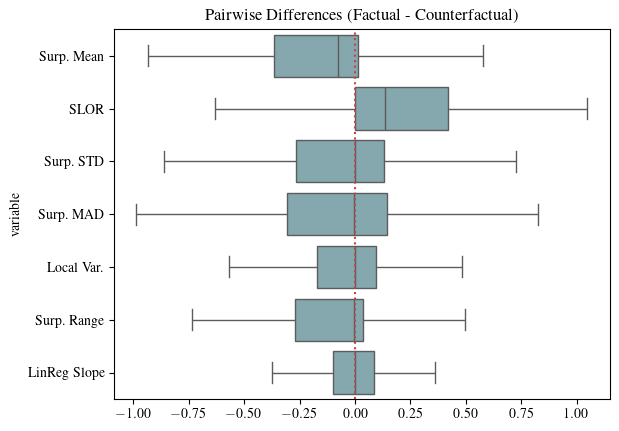
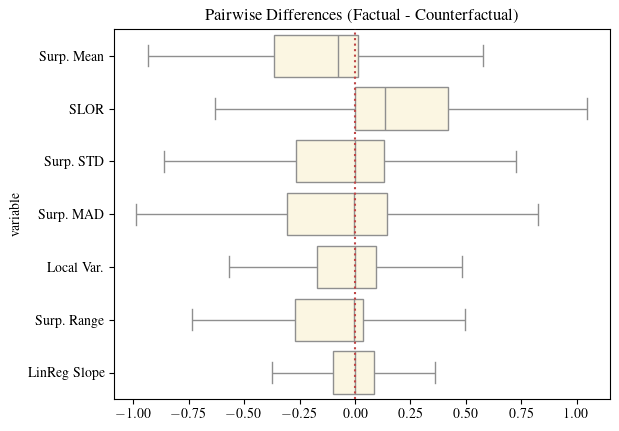
chore: upload new graphs

diff --git a/plots/norm_pairedt_pass-v-act_word_sentence_document.md b/plots/norm_pairedt_pass-v-act_word_sentence_document.md
@@ -1,0 +1,16 @@
+| Metric       | Conversion Type   |   Normality TS |   Normality P-val |   Paired-t TS |   Paired-t P-val |
+|:-------------|:------------------|---------------:|------------------:|--------------:|-----------------:|
+| Surp. Mean   | P to A            |          45.18 |                 0 |        -13.5  |             0    |
+| Surp. Mean   | A to P            |         379.54 |                 0 |        -13.66 |             0    |
+| SLOR         | P to A            |          24.65 |                 0 |         11.19 |             1    |
+| SLOR         | A to P            |         369.3  |                 0 |         20.49 |             1    |
+| Surp. STD    | P to A            |          38.33 |                 0 |         -7.06 |             0    |
+| Surp. STD    | A to P            |         692.85 |                 0 |         -6.84 |             0    |
+| Surp. MAD    | P to A            |          20.22 |                 0 |         -8.1  |             0    |
+| Surp. MAD    | A to P            |         426.03 |                 0 |         -4.65 |             0    |
+| Local Var.   | P to A            |          68.63 |                 0 |         -3.96 |             0    |
+| Local Var.   | A to P            |         784.87 |                 0 |         -5.44 |             0    |
+| Surp. Range  | P to A            |          64.66 |                 0 |         -4.98 |             0    |
+| Surp. Range  | A to P            |         734.12 |                 0 |        -12.93 |             0    |
+| LinReg Slope | P to A            |         128.32 |                 0 |          2.14 |             0.98 |
+| LinReg Slope | A to P            |        1369.39 |                 0 |         -5.44 |             0    |

diff --git a/plots/diff_means_perm_pass-v-act_word_sentence_document.md b/plots/diff_means_perm_pass-v-act_word_sentence_document.md
@@ -1,0 +1,16 @@
+| Metric       | Conversion Type   |   P-value |   Observed abs. diff |
+|:-------------|:------------------|----------:|---------------------:|
+| Surp. Mean   | P to A            |      0    |                 0.61 |
+| Surp. Mean   | A to P            |      0    |                 0.14 |
+| SLOR         | P to A            |      0    |                 0.41 |
+| SLOR         | A to P            |      0    |                 0.21 |
+| Surp. STD    | P to A            |      0    |                 0.4  |
+| Surp. STD    | A to P            |      0    |                 0.09 |
+| Surp. MAD    | P to A            |      0    |                 0.43 |
+| Surp. MAD    | A to P            |      0.02 |                 0.07 |
+| Local Var.   | P to A            |      0.07 |                 0.15 |
+| Local Var.   | A to P            |      0.05 |                 0.06 |
+| Surp. Range  | P to A            |      0.02 |                 0.31 |
+| Surp. Range  | A to P            |      0    |                 0.16 |
+| LinReg Slope | P to A            |      0.03 |                 0.17 |
+| LinReg Slope | A to P            |      0    |                 0.11 |

diff --git a/plots/diff_means_perm_word_sentence_document.md b/plots/diff_means_perm_word_sentence_document.md
@@ -4,6 +4,6 @@
 | SLOR         |      0    |                 0.22 |
 | Surp. STD    |      0    |                 0.11 |
 | Surp. MAD    |      0    |                 0.09 |
-| Local Var.   |      0.03 |                 0.06 |
+| Local Var.   |      0.02 |                 0.06 |
 | Surp. Range  |      0    |                 0.17 |
 | LinReg Slope |      0    |                 0.09 |
